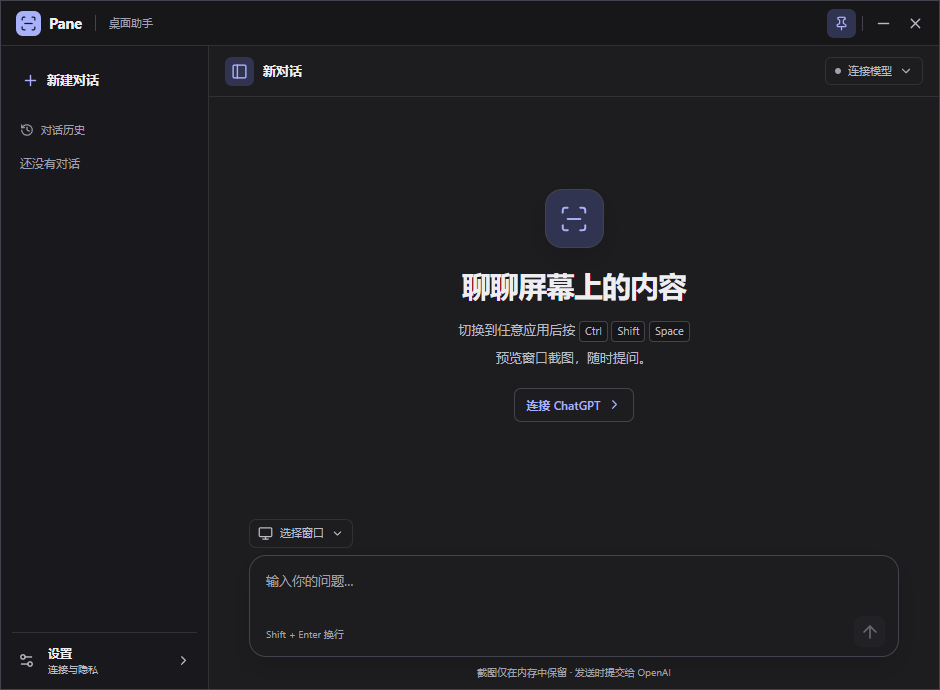
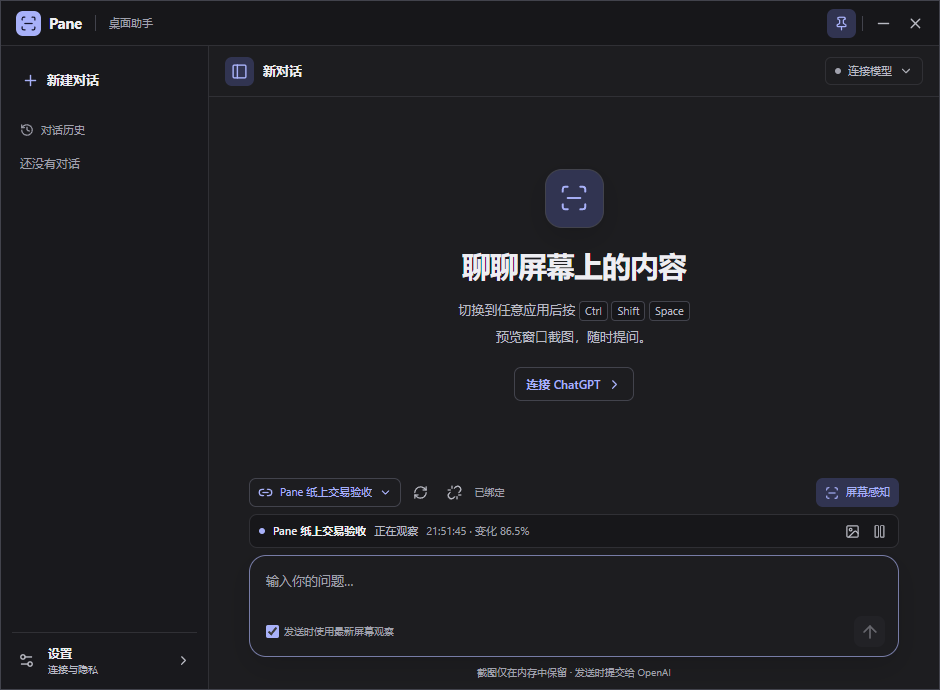
Update Pane 2.1.0 download and preview

diff --git a/README.md b/README.md
@@ -4,7 +4,7 @@ Pane 是一个本地运行的悬浮窗口问答工具。用全局快捷键捕获
 
 ## 下载与预览
 
-[下载 v0.1.0 Windows x64 基线安装包](https://github.com/t0mAto1104/pane-desktop-companion/releases/tag/v0.1.0)
+[下载最新 Windows x64 安装包](https://github.com/t0mAto1104/pane-desktop-companion/releases/latest)
 
 | 浅色 | 深色 |
 | --- | --- |
